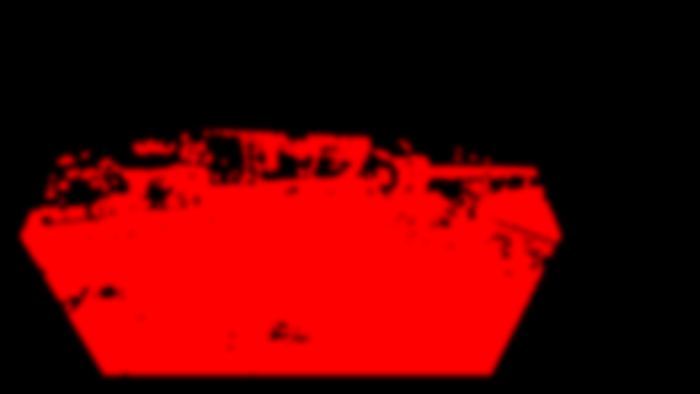
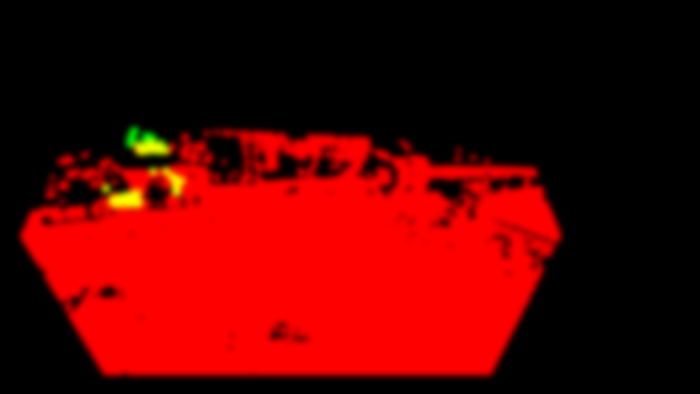
Pool demo: feat-lagoon gains its fire bowl, feature card water stronger and faster
Claude-Session: https://claude.ai/code/session_017zgNfKE9kkyFwF5JTjYFit

Changed region(s): [[0.15, 0.3046, 0.27, 0.5178], [0.12, 0.4569, 0.21, 0.5482]]

diff --git a/pool-demo/index.html b/pool-demo/index.html
@@ -325,7 +325,7 @@
       "  vec2 fu=vec2(uCrop.x+uv.x*uCrop.y,uv.y);",              // full-frame space (mask + regions)
       "  float m=texture2D(uMask,fu).r;",
       "  float depth=mix(.5,1.6,smoothstep(.55,.78,fu.y));",     // nearer water moves more
-      "  float t=uT*0.6;",
+      "  float t=uT*0.85;",
       "  vec2 w=vec2(sin(fu.y*170.+t*1.7+sin(fu.x*38.+t*.8)*2.2)+.6*sin(fu.x*95.-t*1.3),",
       "              cos(fu.x*120.-t*1.5+sin(fu.y*60.-t)*1.8)+.5*cos(fu.y*210.+t*2.1));",
       "  vec2 d=w*m*depth*vec2(.0011,.0016)*vec2(1./uCrop.y,1.);",
@@ -430,7 +430,7 @@
       "  // Water ripple distortion",
       "  vec2 w=vec2(sin(uv.y*180.+t*1.8+sin(uv.x*42.+t*.9)*2.3)+.6*sin(uv.x*100.-t*1.4),",
       "              cos(uv.x*125.-t*1.6+sin(uv.y*65.-t)*1.9)+.5*cos(uv.y*220.+t*2.2));",
-      "  vec2 wd=w*water*vec2(.0014,.0019);",
+      "  vec2 wd=w*water*vec2(.0020,.0028);",
       "  // Caustic shimmer",
       "  float c=sin(uv.x*270.+w.x*2.+t*1.3)*sin(uv.y*390.-w.y*2.-t*1.7);",
       "  float caus=water*smoothstep(.60,1.,c)*.07;",
